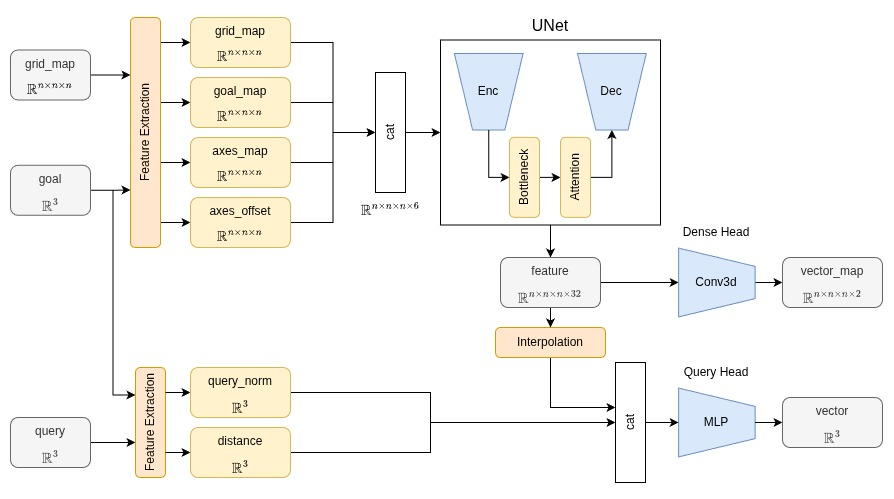
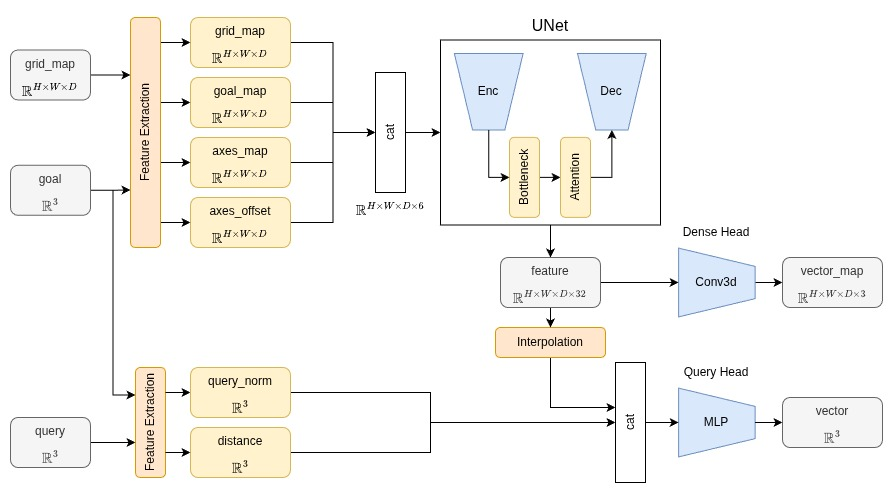
Update repo title and image.

diff --git a/README.md b/README.md
@@ -1,4 +1,4 @@
-# Vacancy Flow Navigation
+# Vacancy Flow Network (VaFlow-Net) for 2D/3D Mobile Robot Navigation
 
 ## Quick Start
 
